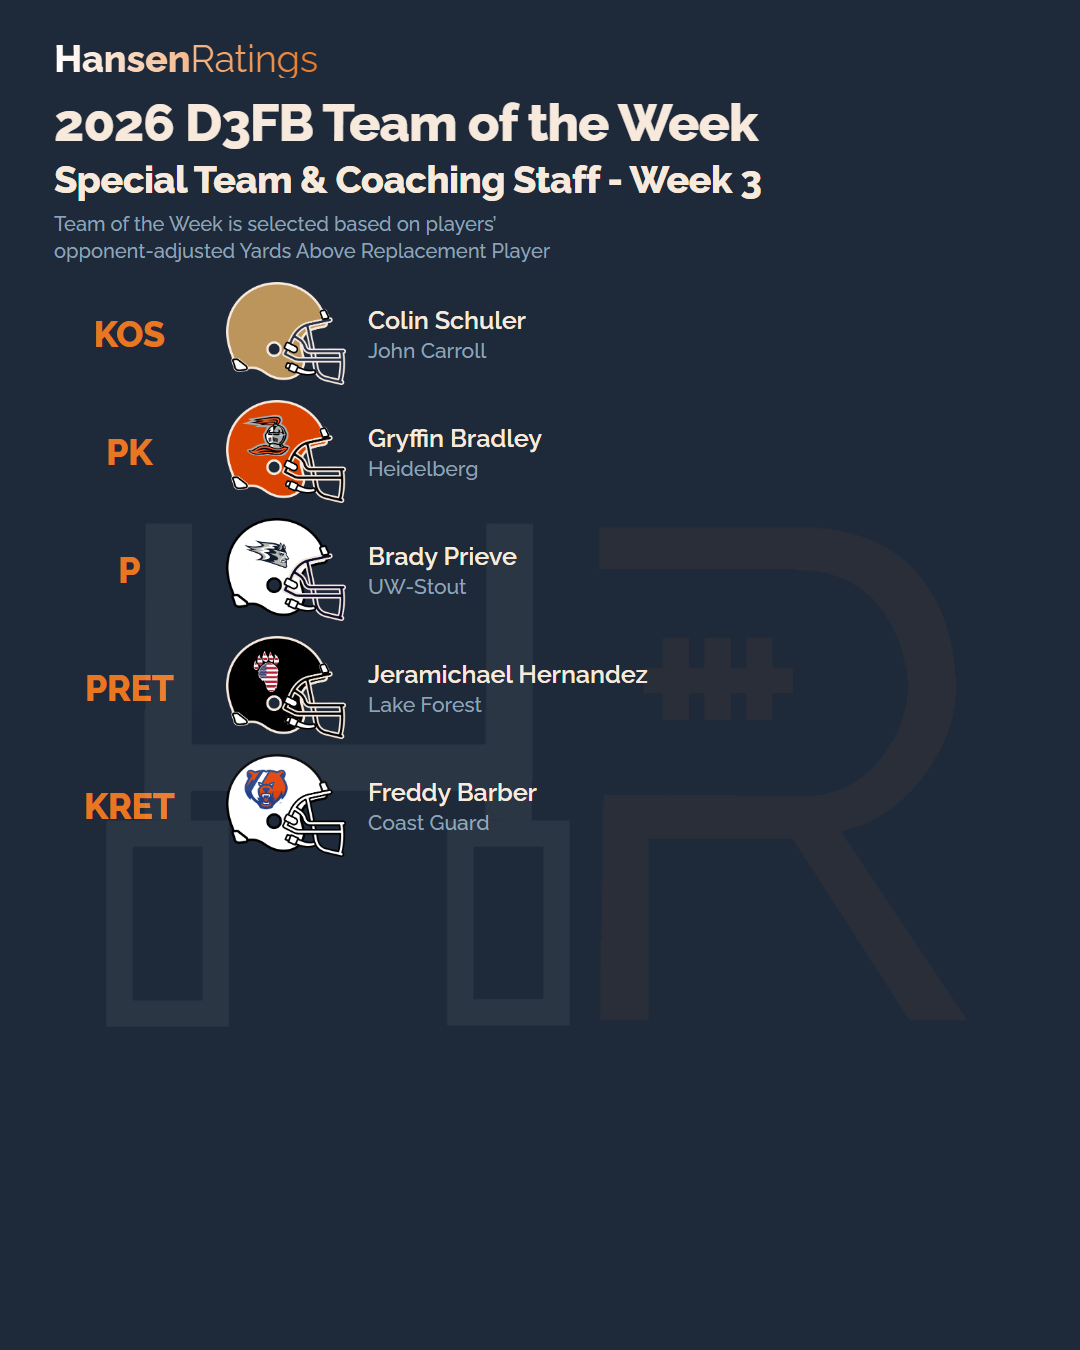
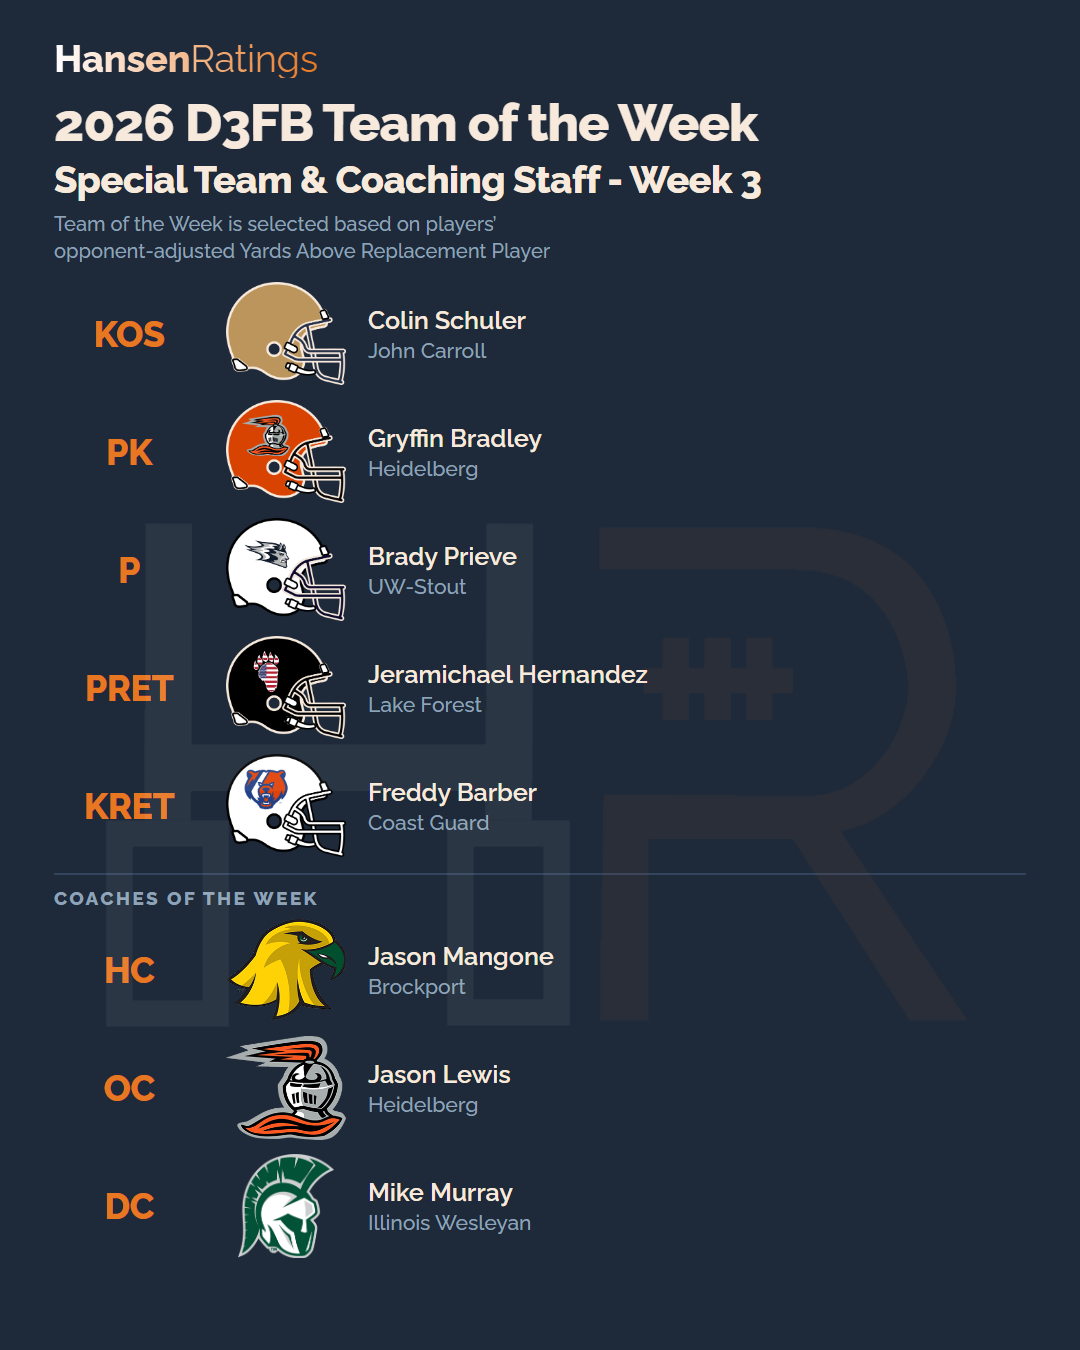
Phase 5 with Coaches

diff --git a/site/awards/2026/team-of-the-week/week-3/index.html b/site/awards/2026/team-of-the-week/week-3/index.html
@@ -25,7 +25,7 @@
     <nav class="hr-switch" aria-label="Season"><span class="hr-switch-label">Season</span><a aria-current="page">2026</a><a href="/awards/2025/">2025</a><a href="/awards/2024/">2024</a><a href="/awards/2023/">2023</a><a href="/awards/2022/">2022</a></nav><nav class="hr-switch" aria-label="View"><span class="hr-switch-label">View</span><a aria-current="page">Team of the Week</a></nav><nav class="hr-switch" aria-label="Week"><span class="hr-switch-label">Week</span><a aria-current="page">Week 3</a><a href="/awards/2026/team-of-the-week/week-2/">Week 2</a><a href="/awards/2026/team-of-the-week/week-1/">Week 1</a></nav>
   </div>
   <main class="hr-main">
-<div class="hr-scroll"><div class="hr-totw"><section class="u-off"><h2>Offense</h2><div class="r"><b>QB</b><span>Eian Roudebush<small>Sr</small><span class="t">Hanover</span></span></div><div class="r"><b>RB</b><span>Trevor Asher<small>Jr</small><span class="t">UW-River Falls</span></span></div><div class="r"><b>RB</b><span>Terry Hicks<small>Sr</small><span class="t">Hampden-Sydney</span></span></div><div class="r"><b>WR</b><span>Aiden Eckert<small>So</small><span class="t">Bethel</span></span></div><div class="r"><b>WR</b><span>Jaxson Garbisch<small>Sr</small><span class="t">UW-Platteville</span></span></div><div class="r"><b>FB</b><span>Stanford Davis<small>Sr</small><span class="t">Springfield</span></span></div><div class="r"><b>LT</b><span>Chris Haag<small>Jr</small><span class="t">UW-Oshkosh</span></span></div><div class="r"><b>LG</b><span>Jack Donovan<small>Fr</small><span class="t">UW-Oshkosh</span></span></div><div class="r"><b>RG</b><span>Max Sisler<small>So</small><span class="t">UW-Oshkosh</span></span></div><div class="r"><b>C</b><span>Tommy Perra<small>Jr</small><span class="t">UW-Oshkosh</span></span></div><div class="r"><b>OL</b><span>Nikko Nordwind-Caraballo<span class="t">UW-Oshkosh</span></span></div></section><section class="u-def"><h2>Defense</h2><div class="r"><b>DE</b><span>Connor Nauta<small>So</small><span class="t">Pacific Lutheran</span></span></div><div class="r"><b>DE</b><span>Galen Limantour<small>Sr</small><span class="t">Susquehanna</span></span></div><div class="r"><b>DT</b><span>CJ Relias<small>Sr</small><span class="t">UW-Oshkosh</span></span></div><div class="r"><b>OLB</b><span>Drew Cody<small>Jr</small><span class="t">Whitworth</span></span></div><div class="r"><b>OLB</b><span>DJ Johnson<small>Jr</small><span class="t">North Park</span></span></div><div class="r"><b>ILB</b><span>Bryce Manders<small>Sr</small><span class="t">UW-Oshkosh</span></span></div><div class="r"><b>CB</b><span>Chance Swansson<small>Sr</small><span class="t">Gustavus Adolphus</span></span></div><div class="r"><b>CB</b><span>Tramell Windham<small>So</small><span class="t">Millikin</span></span></div><div class="r"><b>CB</b><span>Clint Teater<small>Jr</small><span class="t">Illinois Wesleyan</span></span></div><div class="r"><b>SAF</b><span>Dallas Richardson<small>So</small><span class="t">Mount Union</span></span></div><div class="r"><b>SAF</b><span>Devin Glowicki<small>Sr</small><span class="t">Concordia Wis.</span></span></div></section><section class="u-st"><h2>Special Teams</h2><div class="r"><b>KOS</b><span>Colin Schuler<small>Sr</small><span class="t">John Carroll</span></span></div><div class="r"><b>PK</b><span>Gryffin Bradley<small>Fr</small><span class="t">Heidelberg</span></span></div><div class="r"><b>P</b><span>Brady Prieve<small>Jr</small><span class="t">UW-Stout</span></span></div><div class="r"><b>PRET</b><span>Jeramichael Hernandez<small>So</small><span class="t">Lake Forest</span></span></div><div class="r"><b>KRET</b><span>Freddy Barber<small>So</small><span class="t">Coast Guard</span></span></div></section></div><div class="hr-boards"><img src="offense.png?v=e819c6e1" alt="2026 Week 3 team of the week, offense" loading="lazy"><img src="defense.png?v=9e45d961" alt="2026 Week 3 team of the week, defense" loading="lazy"><img src="special-teams.png?v=a04080bd" alt="2026 Week 3 team of the week, special teams" loading="lazy"></div></div>
+<div class="hr-scroll"><div class="hr-totw"><section class="u-off"><h2>Offense</h2><div class="r"><b>QB</b><span>Eian Roudebush<small>Sr</small><span class="t">Hanover</span></span></div><div class="r"><b>RB</b><span>Trevor Asher<small>Jr</small><span class="t">UW-River Falls</span></span></div><div class="r"><b>RB</b><span>Terry Hicks<small>Sr</small><span class="t">Hampden-Sydney</span></span></div><div class="r"><b>WR</b><span>Aiden Eckert<small>So</small><span class="t">Bethel</span></span></div><div class="r"><b>WR</b><span>Jaxson Garbisch<small>Sr</small><span class="t">UW-Platteville</span></span></div><div class="r"><b>FB</b><span>Stanford Davis<small>Sr</small><span class="t">Springfield</span></span></div><div class="r"><b>LT</b><span>Chris Haag<small>Jr</small><span class="t">UW-Oshkosh</span></span></div><div class="r"><b>LG</b><span>Jack Donovan<small>Fr</small><span class="t">UW-Oshkosh</span></span></div><div class="r"><b>RG</b><span>Max Sisler<small>So</small><span class="t">UW-Oshkosh</span></span></div><div class="r"><b>C</b><span>Tommy Perra<small>Jr</small><span class="t">UW-Oshkosh</span></span></div><div class="r"><b>OL</b><span>Nikko Nordwind-Caraballo<span class="t">UW-Oshkosh</span></span></div></section><section class="u-def"><h2>Defense</h2><div class="r"><b>DE</b><span>Connor Nauta<small>So</small><span class="t">Pacific Lutheran</span></span></div><div class="r"><b>DE</b><span>Galen Limantour<small>Sr</small><span class="t">Susquehanna</span></span></div><div class="r"><b>DT</b><span>CJ Relias<small>Sr</small><span class="t">UW-Oshkosh</span></span></div><div class="r"><b>OLB</b><span>Drew Cody<small>Jr</small><span class="t">Whitworth</span></span></div><div class="r"><b>OLB</b><span>DJ Johnson<small>Jr</small><span class="t">North Park</span></span></div><div class="r"><b>ILB</b><span>Bryce Manders<small>Sr</small><span class="t">UW-Oshkosh</span></span></div><div class="r"><b>CB</b><span>Chance Swansson<small>Sr</small><span class="t">Gustavus Adolphus</span></span></div><div class="r"><b>CB</b><span>Tramell Windham<small>So</small><span class="t">Millikin</span></span></div><div class="r"><b>CB</b><span>Clint Teater<small>Jr</small><span class="t">Illinois Wesleyan</span></span></div><div class="r"><b>SAF</b><span>Dallas Richardson<small>So</small><span class="t">Mount Union</span></span></div><div class="r"><b>SAF</b><span>Devin Glowicki<small>Sr</small><span class="t">Concordia Wis.</span></span></div></section><section class="u-st"><h2>Special Teams</h2><div class="r"><b>KOS</b><span>Colin Schuler<small>Sr</small><span class="t">John Carroll</span></span></div><div class="r"><b>PK</b><span>Gryffin Bradley<small>Fr</small><span class="t">Heidelberg</span></span></div><div class="r"><b>P</b><span>Brady Prieve<small>Jr</small><span class="t">UW-Stout</span></span></div><div class="r"><b>PRET</b><span>Jeramichael Hernandez<small>So</small><span class="t">Lake Forest</span></span></div><div class="r"><b>KRET</b><span>Freddy Barber<small>So</small><span class="t">Coast Guard</span></span></div></section><section class="u-co"><h2>Coaches</h2><div class="r"><b>HC</b><span>Jason Mangone<span class="t">Brockport</span></span></div><div class="r"><b>OC</b><span>Jason Lewis<span class="t">Heidelberg</span></span></div><div class="r"><b>DC</b><span>Mike Murray<span class="t">Illinois Wesleyan</span></span></div></section></div><div class="hr-boards"><img src="offense.png?v=e819c6e1" alt="2026 Week 3 team of the week, offense" loading="lazy"><img src="defense.png?v=9e45d961" alt="2026 Week 3 team of the week, defense" loading="lazy"><img src="special-teams.png?v=46ed6b69" alt="2026 Week 3 team of the week, special teams" loading="lazy"></div></div>
   </main>
   <footer class="hr-foot">
     <span>&copy; Hansen Ratings</span>
